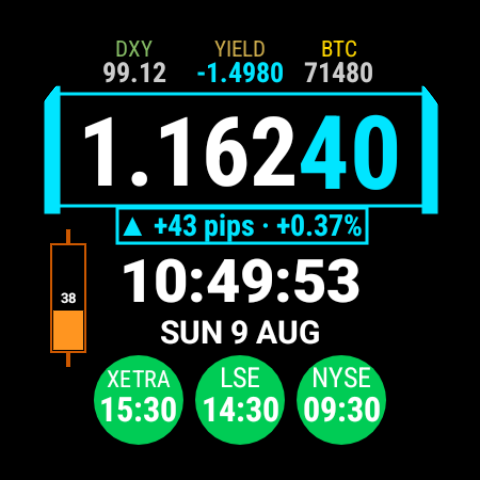
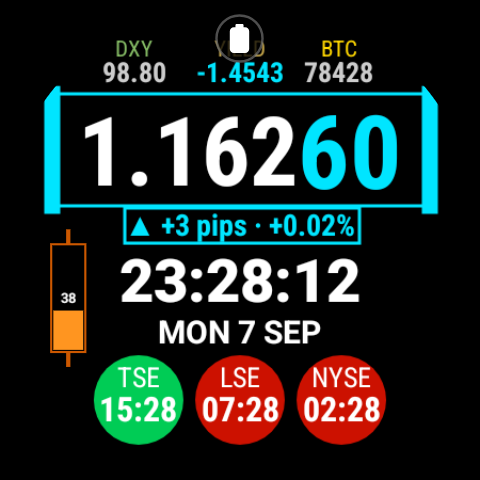
Regenerate all seven watch screenshots for the TSE dial
Every watch shot still showed XETRA, including the README hero - anyone
landing on the repo saw a dial that no longer exists. Three live captures
(hero, both battery tiers) plus four staged via a temporary harness.

Hero caption rewritten: the old one described a bearish, all-closed
Sunday, and the new capture is a bullish tape with Tokyo open and London
and New York shut.

Two things this run caught that would have shipped:

The watch locked mid-session and the first four staged captures were all
of the PIN entry screen. Added a face check to the capture loop (the
face's rate box shows cyan/orange across the mid-band, a lock screen
doesn't) rather than trusting the shot.

Then the same thing again, silently: the three 'live' shots had been
taken AFTER the lock, not before as assumed - the tell was file size, 110
KB against the 59-62 KB a mostly-black face compresses to. They were
already written into docs/screenshots before the check caught it. All
seven now verified as face captures and sized in that band.

Harness was committed on its throwaway branch this time, so deleting the
branch actually removed it - last round it was left uncommitted and rode
across the checkout onto master.

diff --git a/README.md b/README.md
@@ -10,7 +10,7 @@ Shows EUR/USD with pip-level precision, the DXY dollar index, BTC, the EUR–US 
   <img src="docs/screenshots/watchface.png" width="340" alt="ForexDial watch face">
 </p>
 
-<p align="center"><em>Live, on a Galaxy Watch 7. EUR/USD down on the day — so the rate box, pip digits, pips bar and yield all read orange. Markets closed (Sunday), battery healthy.</em></p>
+<p align="center"><em>Live, on a Galaxy Watch 7. EUR/USD up on the day — so the rate box, pip digits, pips bar and yield all read cyan. Tokyo open, London and New York closed, battery full.</em></p>
 
 ---
 
